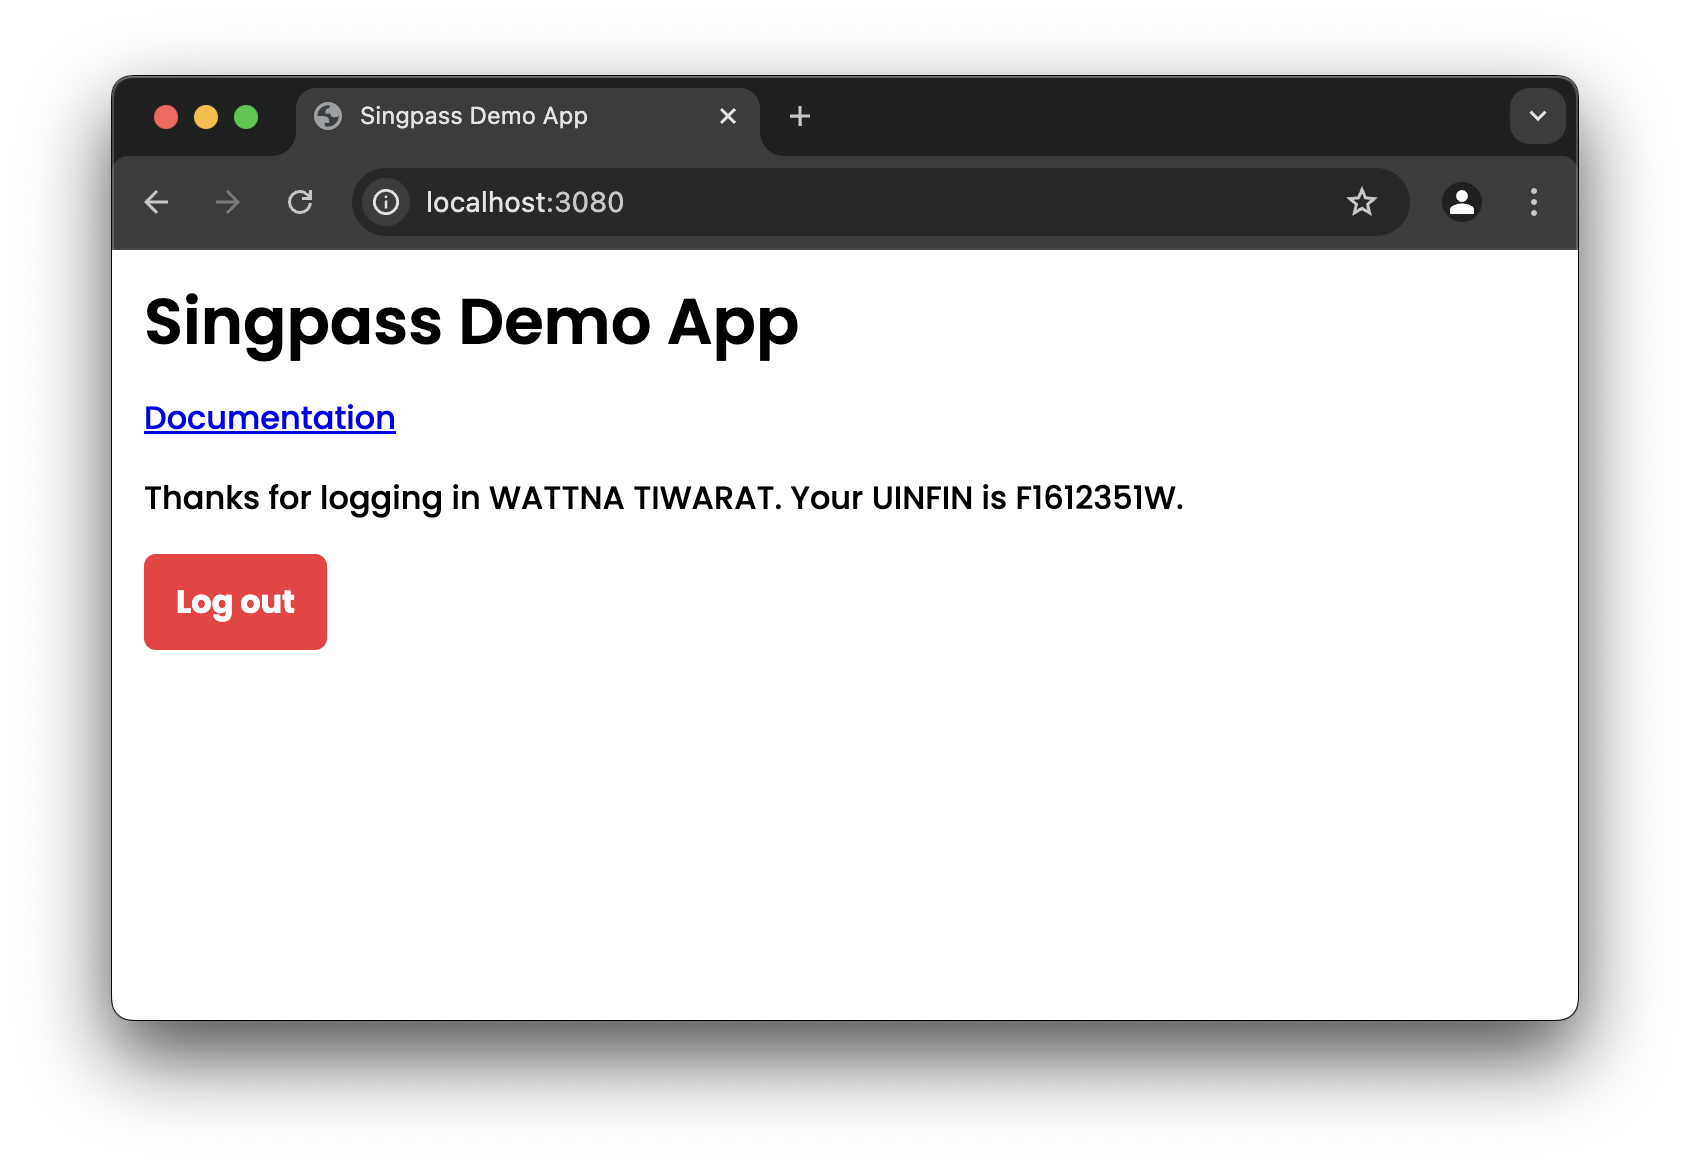
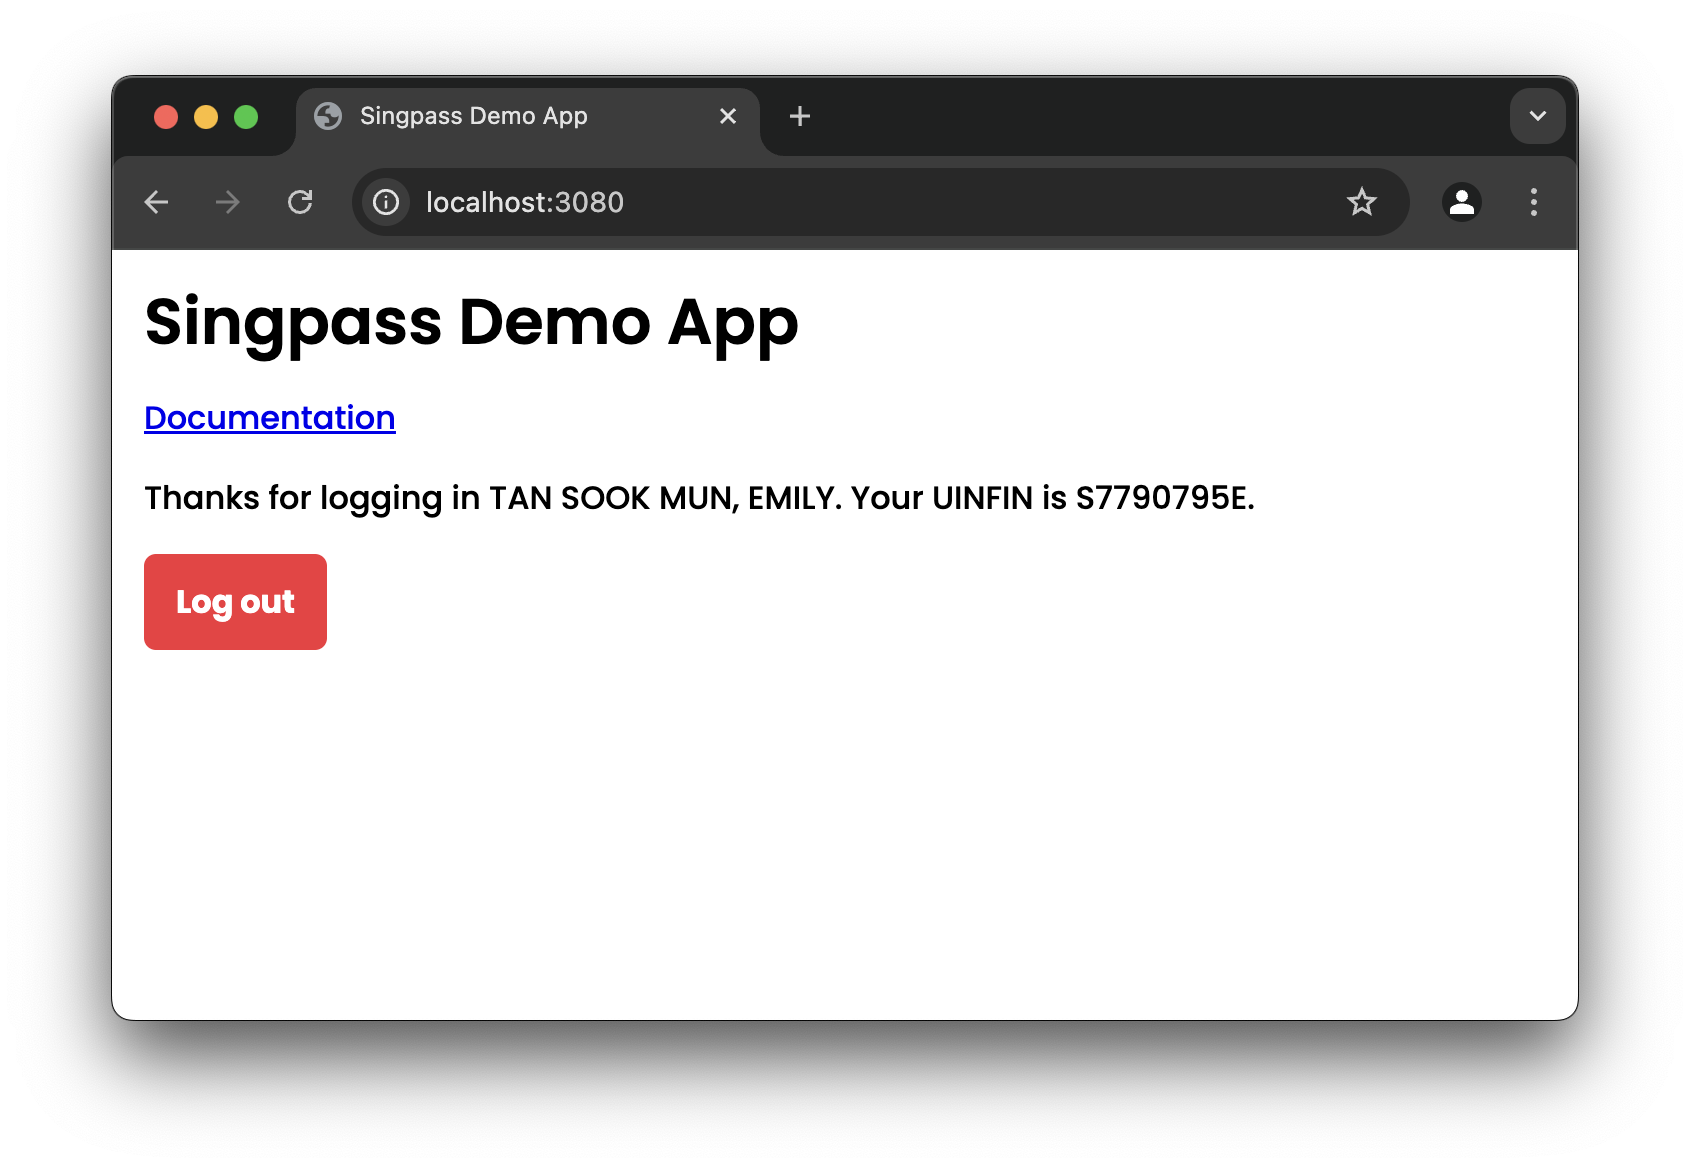
feat: updated staging example credentials

Changed region(s): [[0.2769, 0.4007, 0.7385, 0.4623]]

diff --git a/README.md b/README.md
@@ -31,11 +31,11 @@ Once your demo app is running, visit http://localhost:3080.
 
 ![before login screenshot](docs/before-login.png)
 
-Click the "log in with Singpass" button. On the Singpass login page, select "password login". You may use the staging credentials below:
+Click the "log in with Singpass" button. On the Singpass login page, select "password login". You may use the staging example credentials below:
 
 ```
-Singpass ID : F1612351W
-Password    : MyInfo2o15
+Singpass ID : S7790795E
+Password    : Demo@123
 ```
 
 After successfully authenticating, you will be redirected to the demo app. If all went well, a UUID returned by the Singpass API will be shown.
